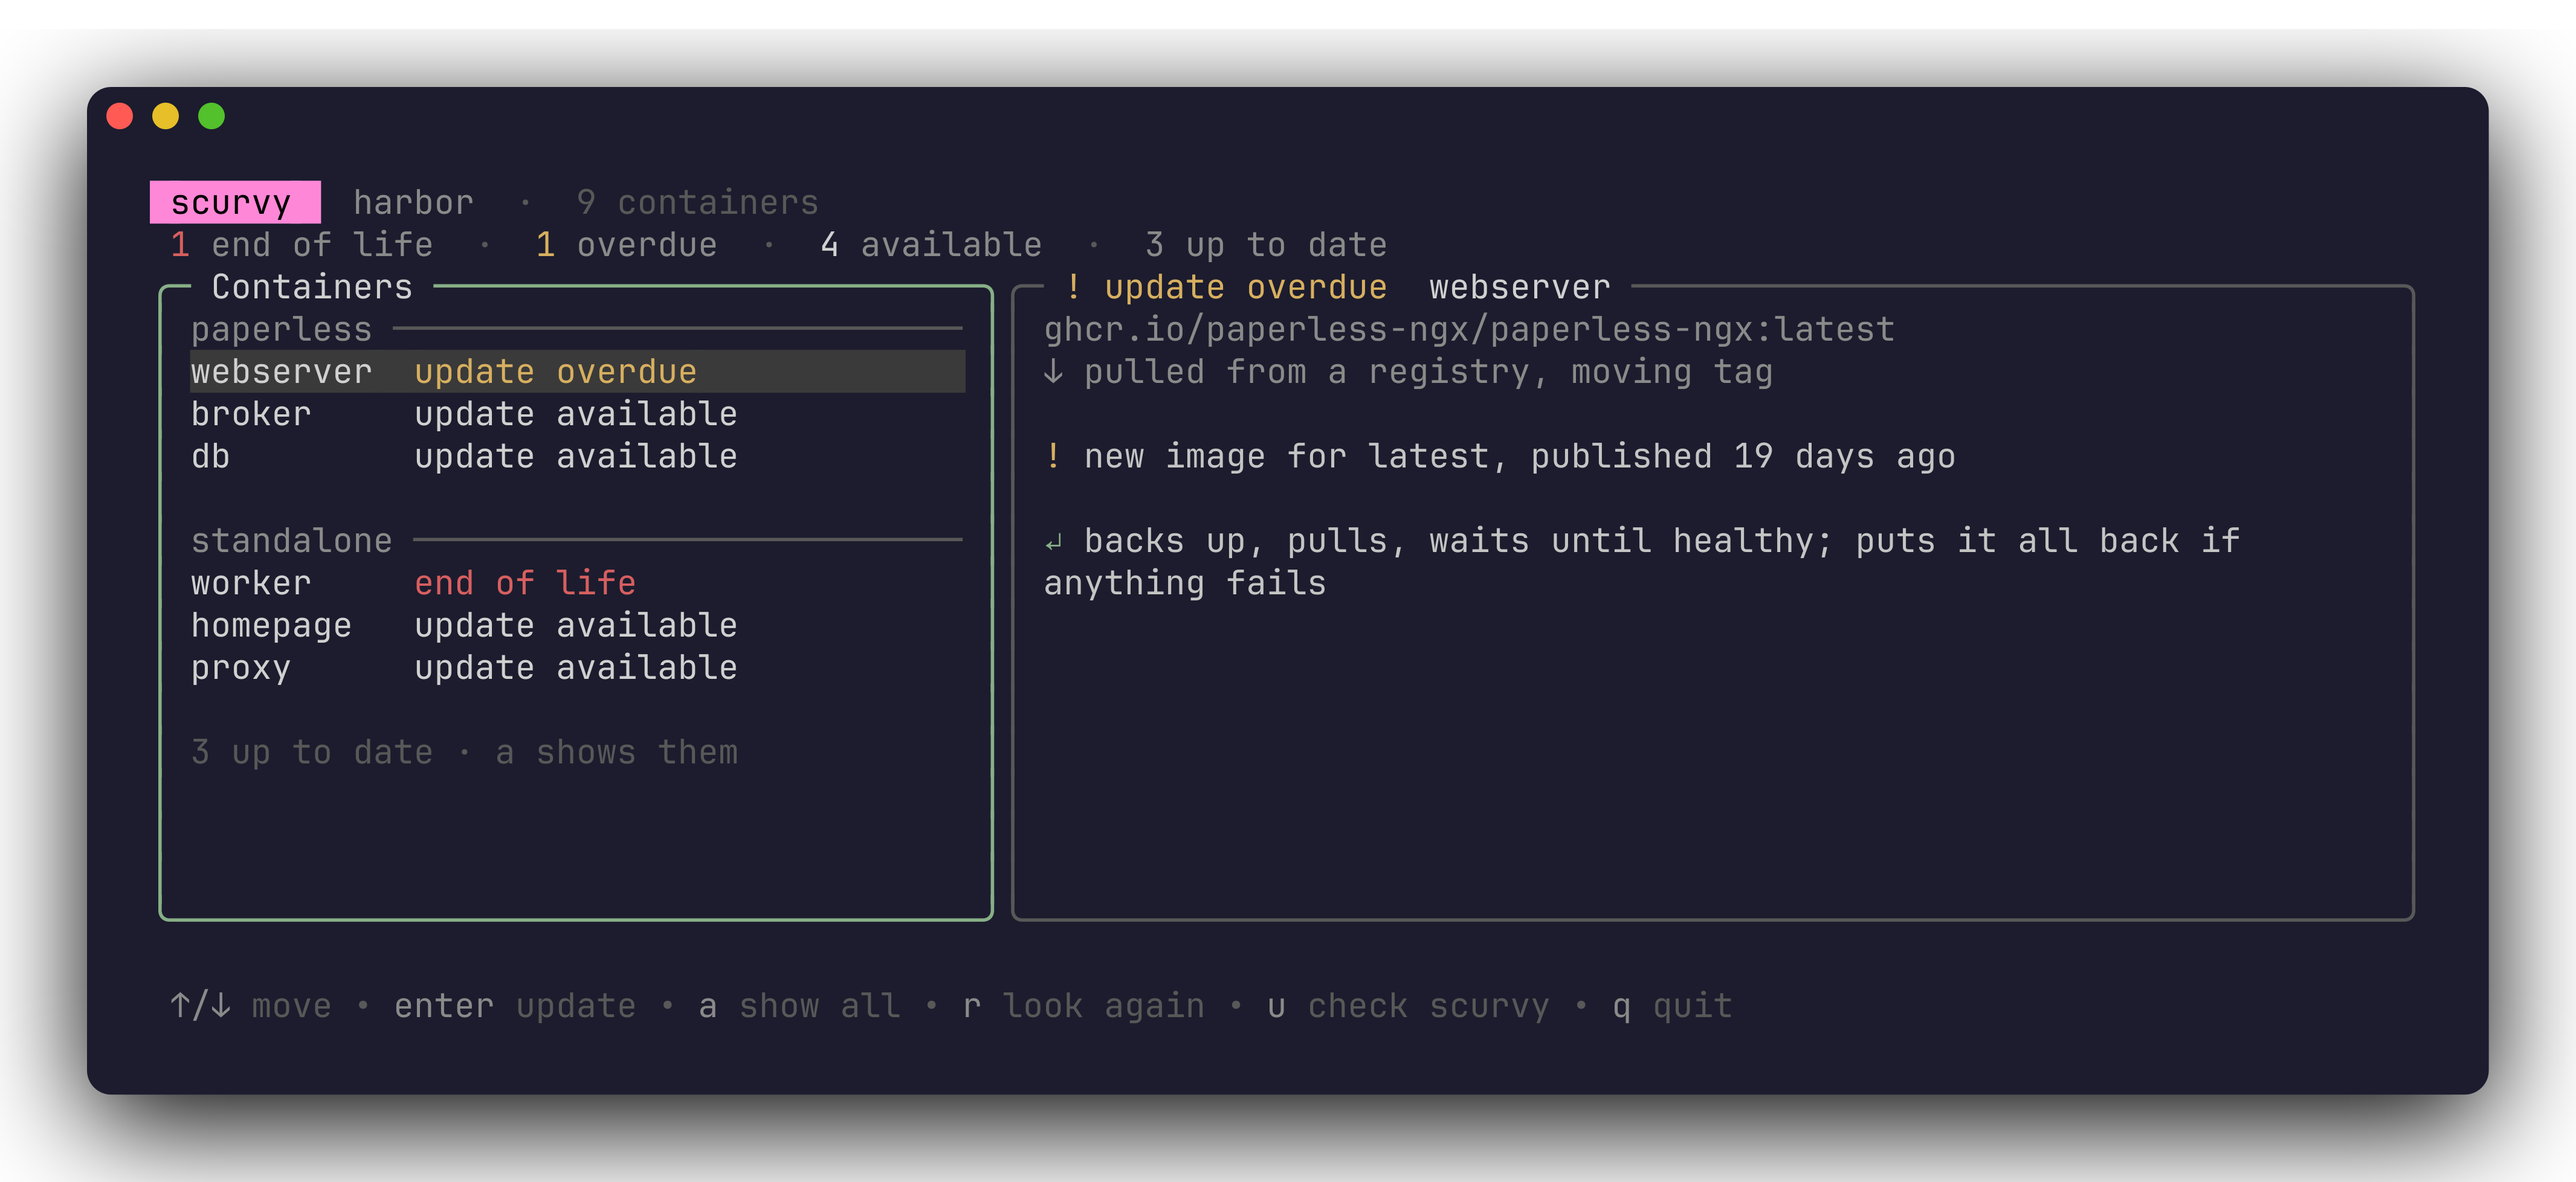
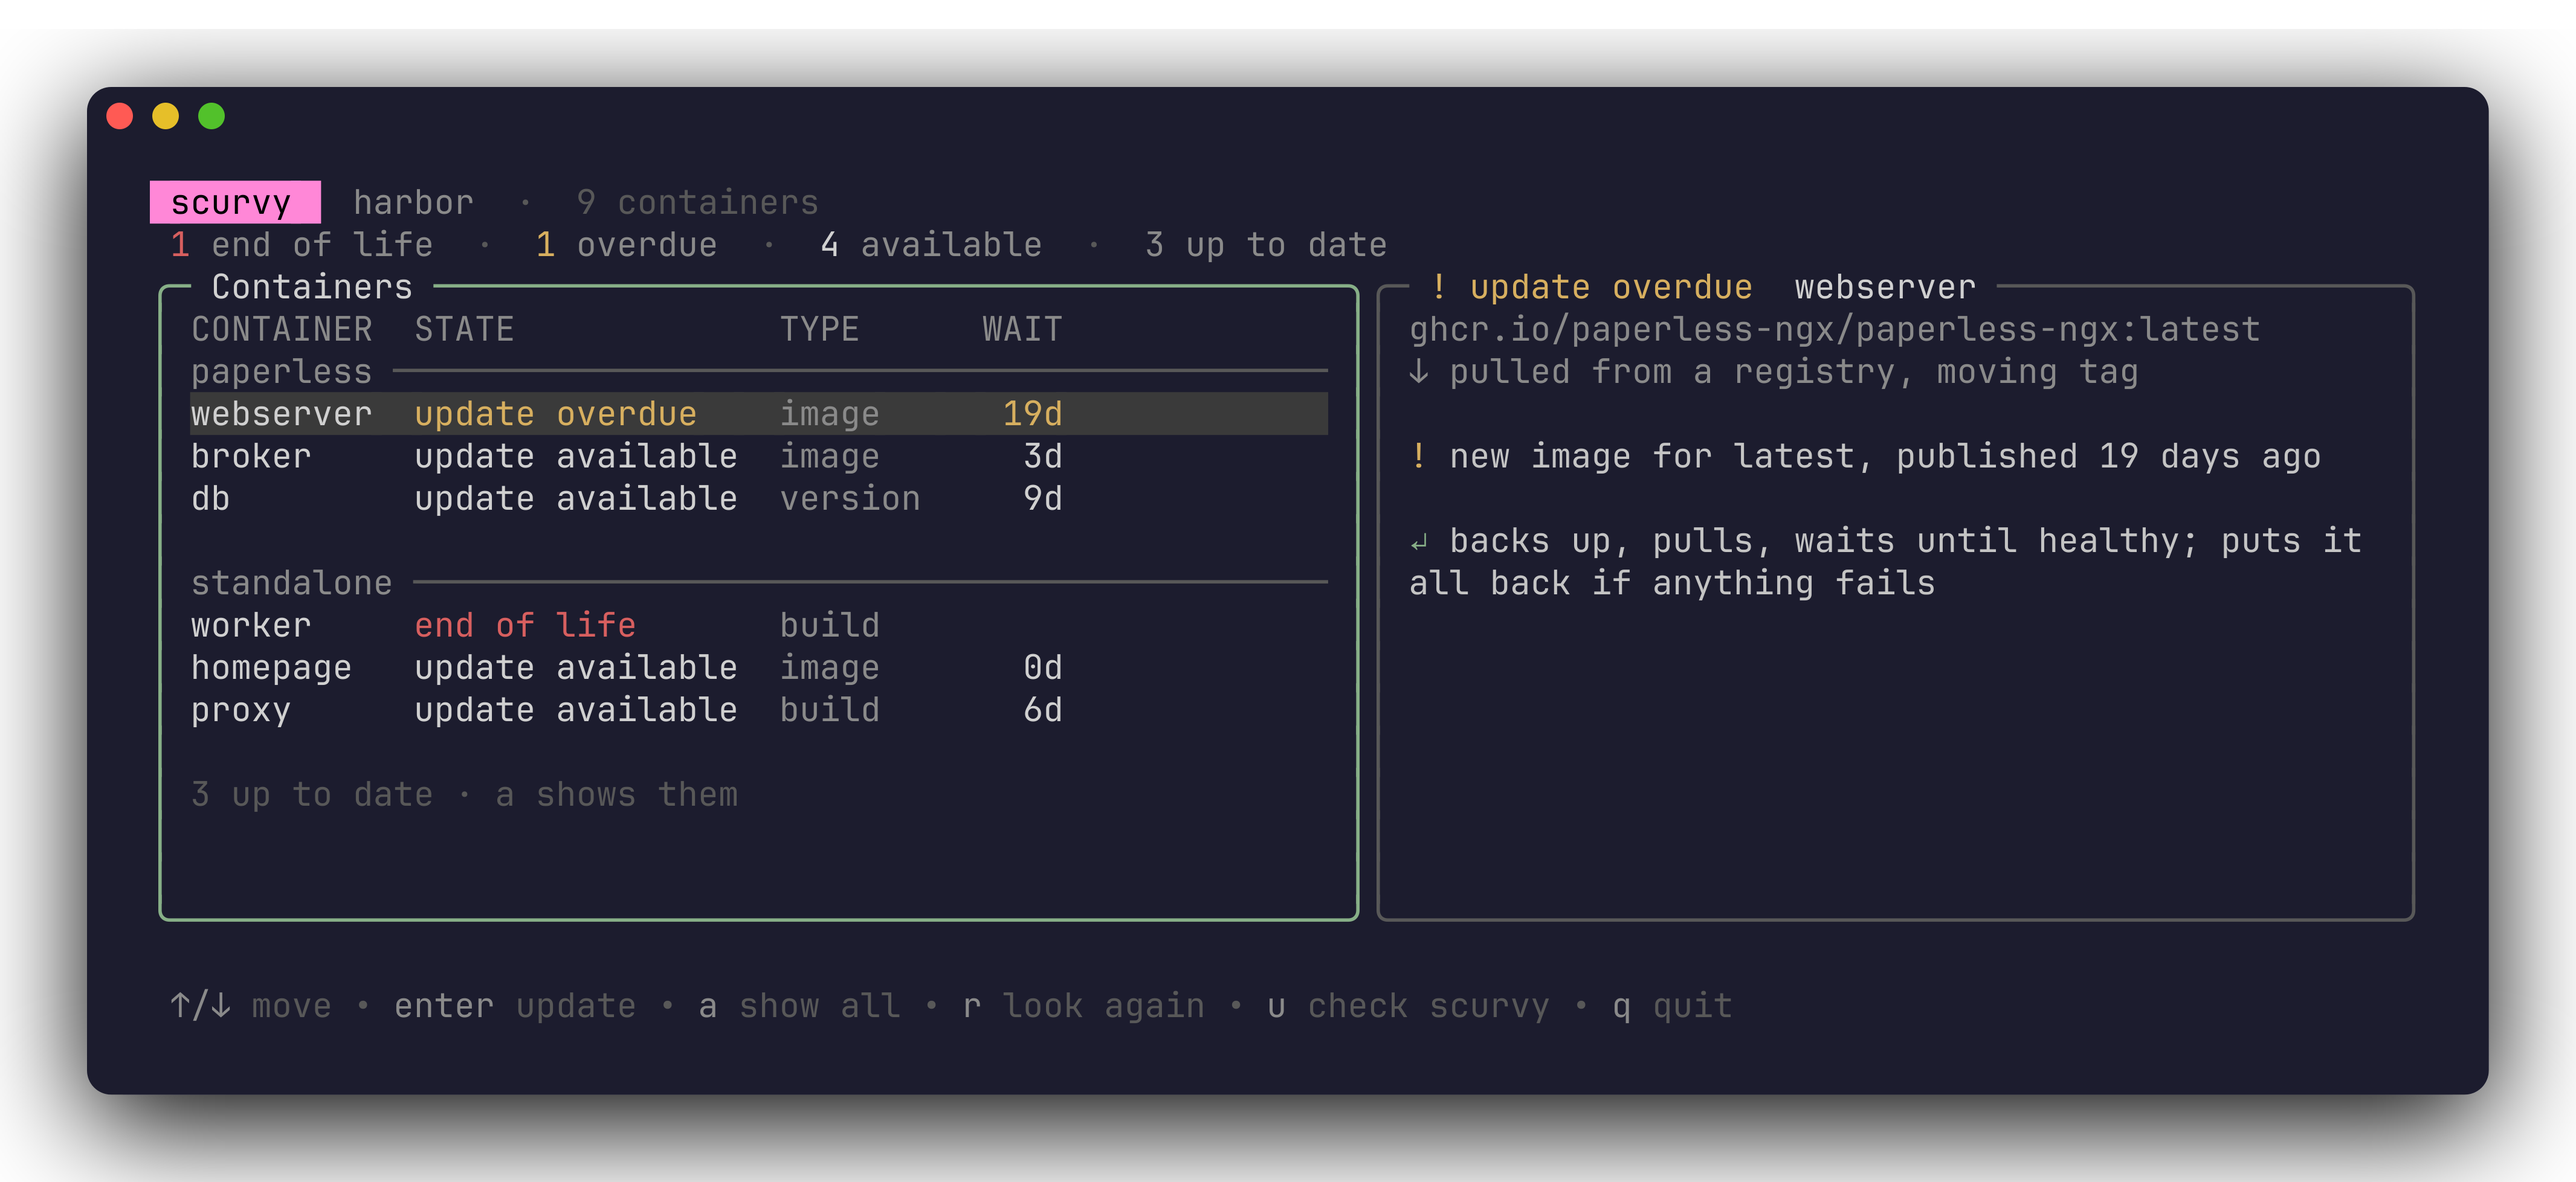
New: column names and a type and wait column in the list
The list names its columns, as k9s and docker ps do: CONTAINER, STATE,
TYPE (image, version, build, digest, external) and WAIT, how long the
update has waited.

diff --git a/internal/tui/view.go b/internal/tui/view.go
@@ -112,7 +112,7 @@ func (m *Model) render() string {
 	area := max(8, h-4) // title, counts above; status, keys below
 	var panels string
 	if w >= 100 {
-		lw := min(max(w*38/100, 36), 56)
+		lw := min(max(w*50/100, 60), w-40)
 		panels = lipgloss.JoinHorizontal(lipgloss.Top,
 			m.listPanel(lw, area), m.rightPanel(w-lw, area))
 	} else {
@@ -213,6 +213,7 @@ func (m *Model) listPanel(w, h int) string {
 	}
 	rows := m.rows()
 	c := m.columns(rows, inner)
+	room-- // the column names stay on top
 	var lines []string
 	pickAt := 0
 	for i, r := range rows {
@@ -244,24 +245,49 @@ func (m *Model) listPanel(w, h int) string {
 		m.top = pickAt - room + 1
 	}
 	m.top = max(0, min(m.top, max(0, len(lines)-room)))
-	return panel(title, lines[m.top:min(len(lines), m.top+room)], w, h, active)
+	shown := append([]string{c.header(inner)}, lines[m.top:min(len(lines), m.top+room)]...)
+	return panel(title, shown, w, h, active)
 }
 
-// cols are the widths of a container's line: its name, then its state.
-type cols struct{ name int }
+// cols are the widths of the list's columns.
+type cols struct{ name, state, kind int }
+
+const waitW = 4 // "WAIT", "120d"
 
 func (m *Model) columns(rows []row, inner int) cols {
-	c := cols{name: 8}
+	c := cols{name: len("CONTAINER"), state: len("update available"), kind: len("external")}
 	for _, r := range rows {
 		if !r.head {
 			c.name = max(c.name, lipgloss.Width(short(r.items[0], r.group)))
 		}
 	}
-	return cols{name: min(c.name, inner-2-len("update available"))}
+	c.name = min(c.name, max(8, inner-c.state-c.kind-waitW-6))
+	return c
 }
 
-// line draws one row: a group's name over a line, or a container and its
-// state in words. Everything else is on the right.
+// header names the columns, as k9s and docker ps do.
+func (c cols) header(inner int) string {
+	h := fit("CONTAINER", c.name) + "  " + fit("STATE", c.state) + "  " + fit("TYPE", c.kind) + "  " + fmt.Sprintf("%*s", waitW, "WAIT")
+	return lipgloss.NewStyle().Foreground(cDim).Bold(true).Render(fit(h, inner))
+}
+
+// kindWord says how the container's image is made, in one word.
+func kindWord(it scan.Item) string {
+	switch it.Source() {
+	case "own build":
+		return "build"
+	case "pinned":
+		return "version"
+	case "registry":
+		return "image"
+	case "docker run":
+		return "run"
+	}
+	return it.Source() // digest, external
+}
+
+// line draws one row: a group's name over a line, or a container with
+// its state, type and how long its update has waited.
 func (m *Model) line(r row, picked bool, c cols, inner int) string {
 	on := func(s lipgloss.Style) lipgloss.Style {
 		if picked {
@@ -279,10 +305,21 @@ func (m *Model) line(r row, picked bool, c cols, inner int) string {
 	}
 	it := r.items[0]
 	st := stateOf(it)
-	name := on(sText).Render(short(it, r.group))
-	line := name + on(lipgloss.NewStyle()).Render(strings.Repeat(" ", max(2, c.name+2-lipgloss.Width(name)))) +
-		on(st.style()).Render(st.word)
+	waiting := ""
+	if f, ok := it.Top(); ok && !f.Since.IsZero() {
+		waiting = fmt.Sprintf("%dd", int(time.Since(f.Since).Hours()/24))
+	}
+	gap := on(lipgloss.NewStyle()).Render("  ")
+	line := cellOn(on(sText).Render(short(it, r.group)), c.name, on) + gap +
+		cellOn(on(st.style()).Render(st.word), c.state, on) + gap +
+		cellOn(on(sDim).Render(kindWord(it)), c.kind, on) + gap +
+		on(st.style()).Render(fmt.Sprintf("%*s", waitW, waiting))
 	return fit(line, inner, on)
+}
+
+// cellOn fits styled text into n cells, the fill styled too.
+func cellOn(s string, n int, on func(lipgloss.Style) lipgloss.Style) string {
+	return fit(s, n, on)
 }
 
 func chipsOn(items []scan.Item, on func(lipgloss.Style) lipgloss.Style) string {
